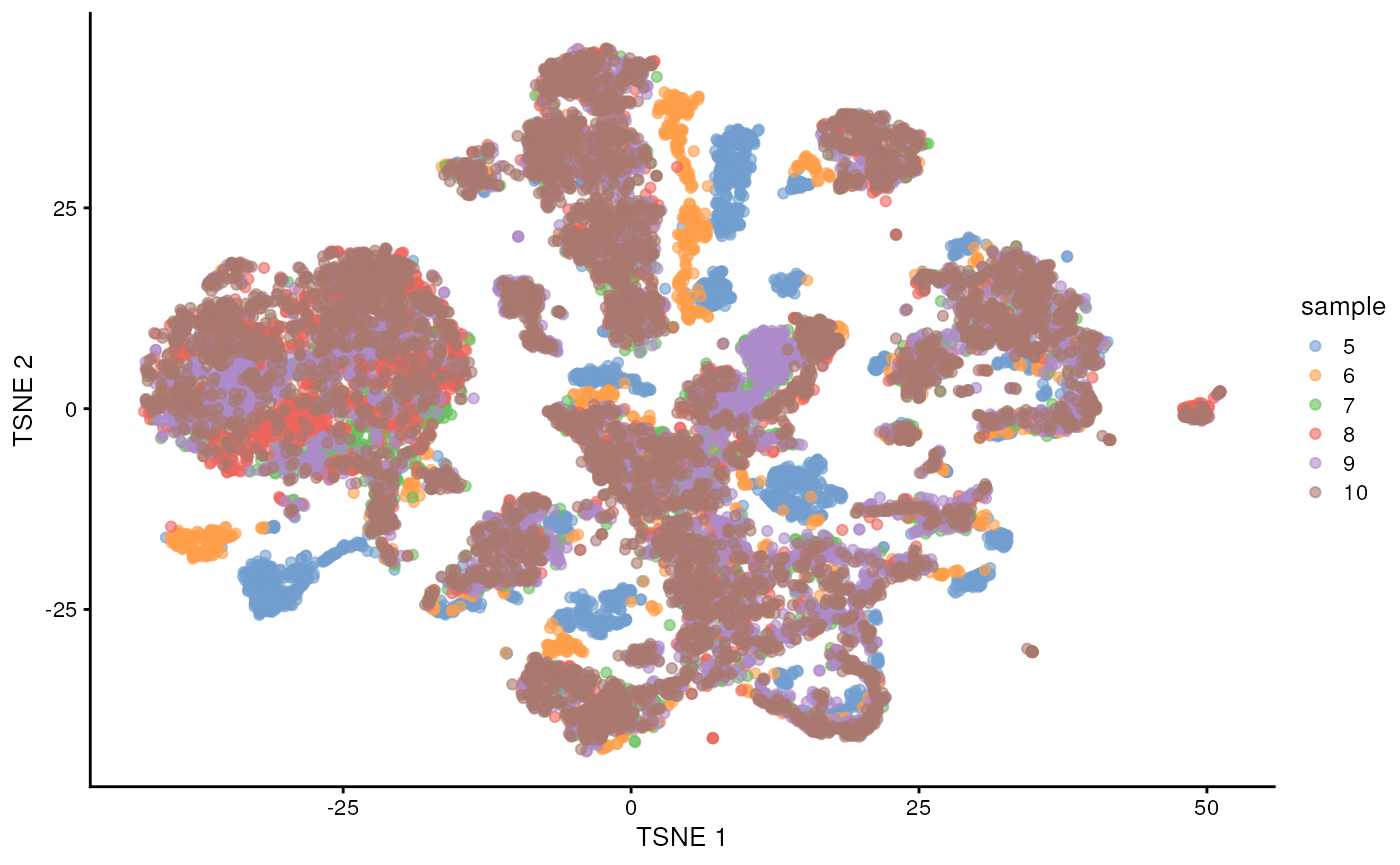
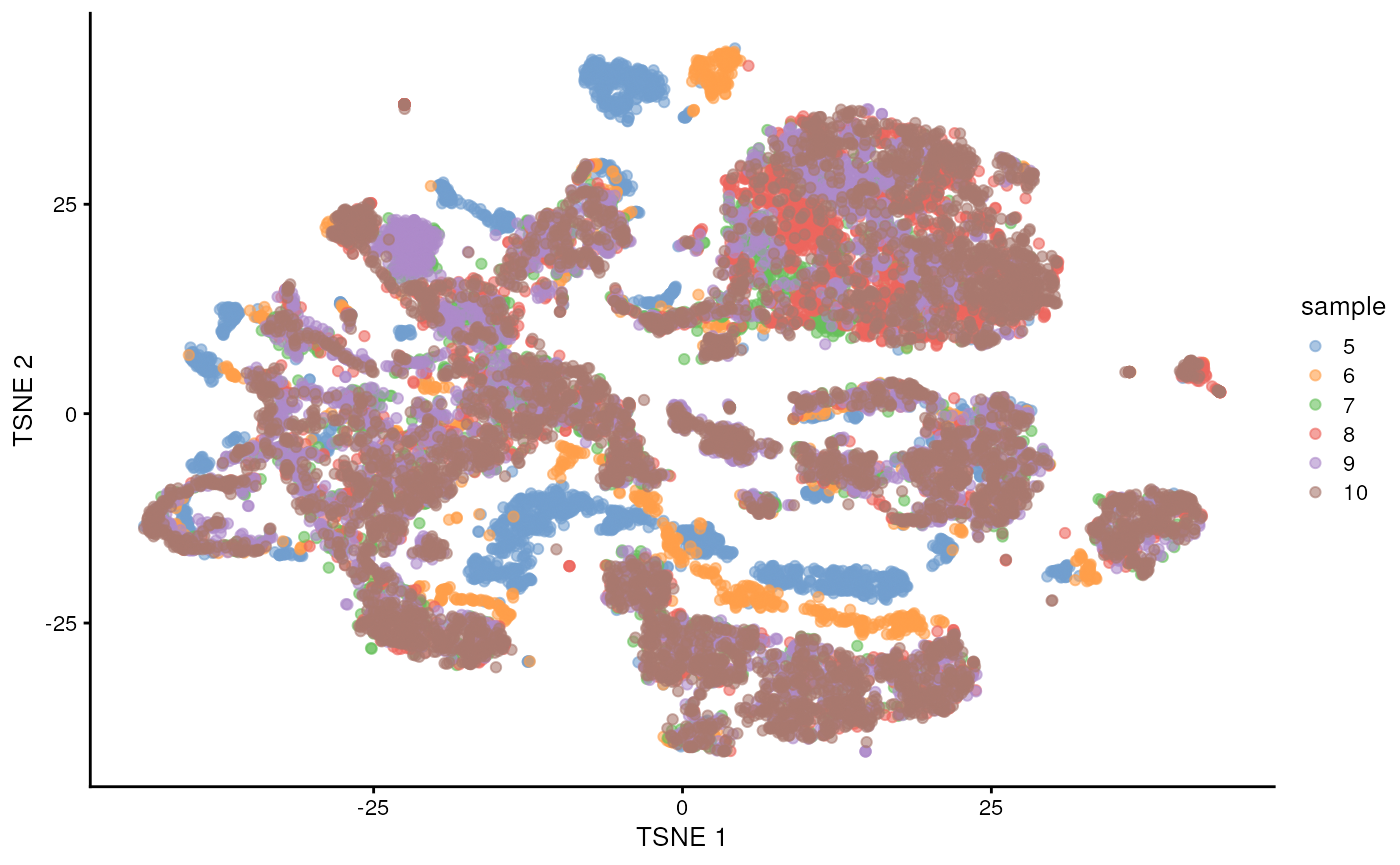
Deploying to gh-pages from @ Bioconductor/ISMB.OSCA@76fa7e8deac93a8da098e68850ddc46f84339eb4 🚀

diff --git a/articles/cell_type_annotation.html b/articles/cell_type_annotation.html
@@ -168,8 +168,8 @@ cell in our <code>SingleCellExperiment</code> object.</p>
 <span>                               BLUSPARAM <span class="op">=</span> <span class="fu"><a href="https://rdrr.io/pkg/bluster/man/NNGraphParam-class.html" class="external-link">NNGraphParam</a></span><span class="op">(</span>cluster.fun <span class="op">=</span> <span class="st">"louvain"</span><span class="op">)</span><span class="op">)</span></span>
 <span><span class="fu"><a href="https://rdrr.io/r/base/table.html" class="external-link">table</a></span><span class="op">(</span><span class="fu"><a href="https://rdrr.io/pkg/SingleCellExperiment/man/colLabels.html" class="external-link">colLabels</a></span><span class="op">(</span><span class="va">sce</span><span class="op">)</span><span class="op">)</span></span></code></pre></div>
 <pre><code><span><span class="co">## </span></span>
-<span><span class="co">##   1   2   3   4   5   6   7   8   9  10  11  12  13  14 </span></span>
-<span><span class="co">##  92 144  78 397 397 210 246  96 108 118 143 210 152  20</span></span></code></pre>
+<span><span class="co">##   1   2   3   4   5   6   7   8   9  10  11  12  13  14  15 </span></span>
+<span><span class="co">##  93 144  75 342 415 210 246  83 108 117 143 208 152  20  55</span></span></code></pre>
 <p>We assign the cluster assignments back into our
 <code>SingleCellExperiment</code> object as a <code>factor</code> in the
 column metadata. This allows us to conveniently visualize the
@@ -212,8 +212,8 @@ cluster when compared to another cluster.</p>
 <code class="sourceCode R"><span><span class="fu"><a href="https://rdrr.io/r/base/colnames.html" class="external-link">rownames</a></span><span class="op">(</span><span class="va">sce</span><span class="op">)</span> <span class="op">&lt;-</span> <span class="fu"><a href="https://rdrr.io/pkg/SummarizedExperiment/man/SummarizedExperiment-class.html" class="external-link">rowData</a></span><span class="op">(</span><span class="va">sce</span><span class="op">)</span><span class="op">$</span><span class="va">SYMBOL</span></span>
 <span><span class="va">markers</span> <span class="op">&lt;-</span> <span class="fu"><a href="https://rdrr.io/pkg/scran/man/findMarkers.html" class="external-link">findMarkers</a></span><span class="op">(</span><span class="va">sce</span>, test.type <span class="op">=</span> <span class="st">"wilcox"</span>, direction <span class="op">=</span> <span class="st">"up"</span>, lfc <span class="op">=</span> <span class="fl">1</span><span class="op">)</span></span>
 <span><span class="va">markers</span></span></code></pre></div>
-<pre><code><span><span class="co">## List of length 14</span></span>
-<span><span class="co">## names(14): 1 2 3 4 5 6 7 8 9 10 11 12 13 14</span></span></code></pre>
+<pre><code><span><span class="co">## List of length 15</span></span>
+<span><span class="co">## names(15): 1 2 3 4 5 6 7 8 9 10 11 12 13 14 15</span></span></code></pre>
 <p>The resulting object contains a sorted marker gene list for each
 cluster, in which the top genes are those that contribute the most to
 the separation of that cluster from mall other clusters.</p>
@@ -221,14 +221,14 @@ the separation of that cluster from mall other clusters.</p>
 cluster.</p>
 <div class="sourceCode" id="cb10"><pre class="downlit sourceCode r">
 <code class="sourceCode R"><span><span class="va">markers</span><span class="op">[[</span><span class="fl">1</span><span class="op">]</span><span class="op">]</span></span></code></pre></div>
-<pre><code><span><span class="co">## DataFrame with 29453 rows and 17 columns</span></span>
+<pre><code><span><span class="co">## DataFrame with 29453 rows and 18 columns</span></span>
 <span><span class="co">##                  Top     p.value         FDR summary.AUC     AUC.2     AUC.3</span></span>
 <span><span class="co">##            &lt;integer&gt;   &lt;numeric&gt;   &lt;numeric&gt;   &lt;numeric&gt; &lt;numeric&gt; &lt;numeric&gt;</span></span>
-<span><span class="co">## Arl4c              1 2.00247e-90 1.96596e-86    0.998549  0.906401  0.989967</span></span>
-<span><span class="co">## Pitx2              1 3.44435e-77 9.22239e-74    0.942257  0.932065  0.772854</span></span>
-<span><span class="co">## Slc2a3             1 1.26060e-42 3.37531e-40    0.958028  0.885341  0.928790</span></span>
-<span><span class="co">## Nrp1               1 1.49555e-93 4.40485e-89    0.987488  0.685160  0.658445</span></span>
-<span><span class="co">## Cryab              1 1.64329e-70 2.41999e-67    0.948144  0.932292  0.902174</span></span>
+<span><span class="co">## Arl4c              1 6.34404e-83 9.34255e-79    0.998774  0.905989  0.991111</span></span>
+<span><span class="co">## Pitx2              1 6.36335e-70 1.70382e-66    0.943092  0.932572  0.764588</span></span>
+<span><span class="co">## Slc2a3             1 8.78828e-44 2.39977e-41    0.968717  0.882990  0.931613</span></span>
+<span><span class="co">## Cryab              1 3.28497e-62 2.93189e-59    0.938156  0.922267  0.890323</span></span>
+<span><span class="co">## Hand1              1 1.37058e-75 5.04598e-72    0.999560  0.989695  0.698638</span></span>
 <span><span class="co">## ...              ...         ...         ...         ...       ...       ...</span></span>
 <span><span class="co">## AC125149.2     29448           1           1           0         0         0</span></span>
 <span><span class="co">## AC125149.4     29449           1           1           0         0         0</span></span>
@@ -237,30 +237,30 @@ cluster.</p>
 <span><span class="co">## Vmn2r122       29453           1           1           0         0         0</span></span>
 <span><span class="co">##                AUC.4     AUC.5     AUC.6     AUC.7     AUC.8     AUC.9</span></span>
 <span><span class="co">##            &lt;numeric&gt; &lt;numeric&gt; &lt;numeric&gt; &lt;numeric&gt; &lt;numeric&gt; &lt;numeric&gt;</span></span>
-<span><span class="co">## Arl4c       0.998549  0.663482  0.908696  0.861082  0.939085  0.866244</span></span>
-<span><span class="co">## Pitx2       0.942257  0.800159  0.941770  0.938406  0.753397  0.416667</span></span>
-<span><span class="co">## Slc2a3      0.958028  0.875205  0.689441  0.699054  0.881680  0.888688</span></span>
-<span><span class="co">## Nrp1        0.987488  0.722977  0.952433  0.955992  0.591825  0.208837</span></span>
-<span><span class="co">## Cryab       0.948144  0.944174  0.952277  0.952722  0.263247  0.345310</span></span>
+<span><span class="co">## Arl4c       0.998774  0.667859  0.908193  0.859953  0.967094  0.864695</span></span>
+<span><span class="co">## Pitx2       0.943092  0.789921  0.942396  0.938981  0.798290  0.413381</span></span>
+<span><span class="co">## Slc2a3      0.968717  0.871538  0.684537  0.693330  0.881591  0.886002</span></span>
+<span><span class="co">## Cryab       0.938156  0.927555  0.942038  0.942477  0.187978  0.341597</span></span>
+<span><span class="co">## Hand1       0.999560  0.870838  0.999590  0.999738  0.882886  0.212166</span></span>
 <span><span class="co">## ...              ...       ...       ...       ...       ...       ...</span></span>
 <span><span class="co">## AC125149.2         0         0         0         0         0         0</span></span>
 <span><span class="co">## AC125149.4         0         0         0         0         0         0</span></span>
 <span><span class="co">## AC234645.1         0         0         0         0         0         0</span></span>
 <span><span class="co">## AC168977.2         0         0         0         0         0         0</span></span>
 <span><span class="co">## Vmn2r122           0         0         0         0         0         0</span></span>
-<span><span class="co">##               AUC.10    AUC.11    AUC.12    AUC.13      AUC.14</span></span>
-<span><span class="co">##            &lt;numeric&gt; &lt;numeric&gt; &lt;numeric&gt; &lt;numeric&gt;   &lt;numeric&gt;</span></span>
-<span><span class="co">## Arl4c       0.979366  0.944284  0.925983  0.732695 0.094565217</span></span>
-<span><span class="co">## Pitx2       0.926032  0.941928  0.870859  0.847969 0.928260870</span></span>
-<span><span class="co">## Slc2a3      0.932019  0.388188  0.960300  0.284826 0.000543478</span></span>
-<span><span class="co">## Nrp1        0.977800  0.983734  0.840631  0.882509 0.805978261</span></span>
-<span><span class="co">## Cryab       0.947218  0.949377  0.946636  0.909110 0.454891304</span></span>
-<span><span class="co">## ...              ...       ...       ...       ...         ...</span></span>
-<span><span class="co">## AC125149.2         0         0         0         0           0</span></span>
-<span><span class="co">## AC125149.4         0         0         0         0           0</span></span>
-<span><span class="co">## AC234645.1         0         0         0         0           0</span></span>
-<span><span class="co">## AC168977.2         0         0         0         0           0</span></span>
-<span><span class="co">## Vmn2r122           0         0         0         0           0</span></span></code></pre>
+<span><span class="co">##               AUC.10    AUC.11    AUC.12    AUC.13      AUC.14    AUC.15</span></span>
+<span><span class="co">##            &lt;numeric&gt; &lt;numeric&gt; &lt;numeric&gt; &lt;numeric&gt;   &lt;numeric&gt; &lt;numeric&gt;</span></span>
+<span><span class="co">## Arl4c       0.979138  0.944206  0.929384  0.730688 0.093548387  0.997263</span></span>
+<span><span class="co">## Pitx2       0.926110  0.942477  0.874535  0.848189 0.929032258  0.941349</span></span>
+<span><span class="co">## Slc2a3      0.929878  0.384089  0.962004  0.282400 0.000537634  0.887977</span></span>
+<span><span class="co">## Cryab       0.936954  0.939168  0.936363  0.899335 0.450000000  0.936657</span></span>
+<span><span class="co">## Hand1       0.962044  0.999624  0.999535  0.995756 0.152150538  0.999804</span></span>
+<span><span class="co">## ...              ...       ...       ...       ...         ...       ...</span></span>
+<span><span class="co">## AC125149.2         0         0         0         0           0         0</span></span>
+<span><span class="co">## AC125149.4         0         0         0         0           0         0</span></span>
+<span><span class="co">## AC234645.1         0         0         0         0           0         0</span></span>
+<span><span class="co">## AC168977.2         0         0         0         0           0         0</span></span>
+<span><span class="co">## Vmn2r122           0         0         0         0           0         0</span></span></code></pre>
 <p>The <code>Top</code> field provides the the minimum rank across all
 pairwise comparisons. The <code>p.value</code> field provides the
 combined <em>p</em>-value across all comparisons, and the
